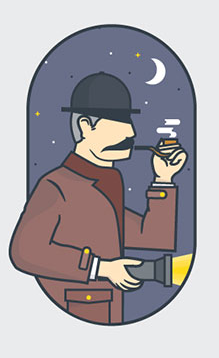
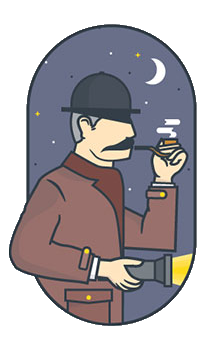
update

diff --git a/index.html b/index.html
@@ -7,13 +7,13 @@
     <title>Serlokas</title>
 </head>
 
-<body>
- <img style="display: inline-block; width: 20%; float: left; margin-left: 20%; margin-right: 10%; margin-top: 7%;" src="serlokas.jpg" alt="Serloko nuotrauka">
- <div style="display: inline-block; width: 30%; float: left; background-color: yellow; margin-top: 10%; text-align: center;">
-    <h1 style="display: inline-block; width: 100%; font-size: 80px;">404</h1>
-    <p style="display: inline-block; width: 100%; font-size: 24px;">Lorem ipsum dolor sit amet consectetur adipisicing elit. Numquam, consequatur tenetur consectetur perspiciatis reiciendis aperiam!</p>
-    <p style="display: inline-block; width: 100%;">Lorem ipsum dolor sit amet consectetur.</p>
-    <a style="display: inline-block; background-color: rgb(105, 111, 137); color: white; font-size: 20px; padding: 20px;" href="#">Back home</a>
+<body style="background-color: #EAEBED;">
+ <img style="display: inline-block; width: 20%; float: left; margin-left: 20%; margin-right: 10%; margin-top: 7%;" src="serlokas.png" alt="Serloko nuotrauka">
+ <div style="display: inline-block; width: 30%; float: left; margin-top: 10%; text-align: center;">
+    <h1 style="display: inline-block; width: 100%; font-size: 80px; margin-top: 0; margin-bottom: 0;">404</h1>
+    <p style="display: inline-block; width: 100%; font-size: 24px; margin-top: 0; margin-bottom: 0;">Lorem ipsum, dolor sit amet consectetur adipisicing elit. Adipisci pariatur illo, repellendus voluptas perspiciatis quae laboriosam!</p>
+    <p style="display: inline-block; width: 100%; margin-top: 0; margin-bottom: 0;">Lorem ipsum dolor sit amet consectetur.</p>
+    <a style="display: inline-block; background-color: rgb(105, 111, 137); color: white; font-size: 20px; padding: 20px;text-decoration: none; text-transform: uppercase;" href="#">Back home</a>
  </div>
  
 </body>
